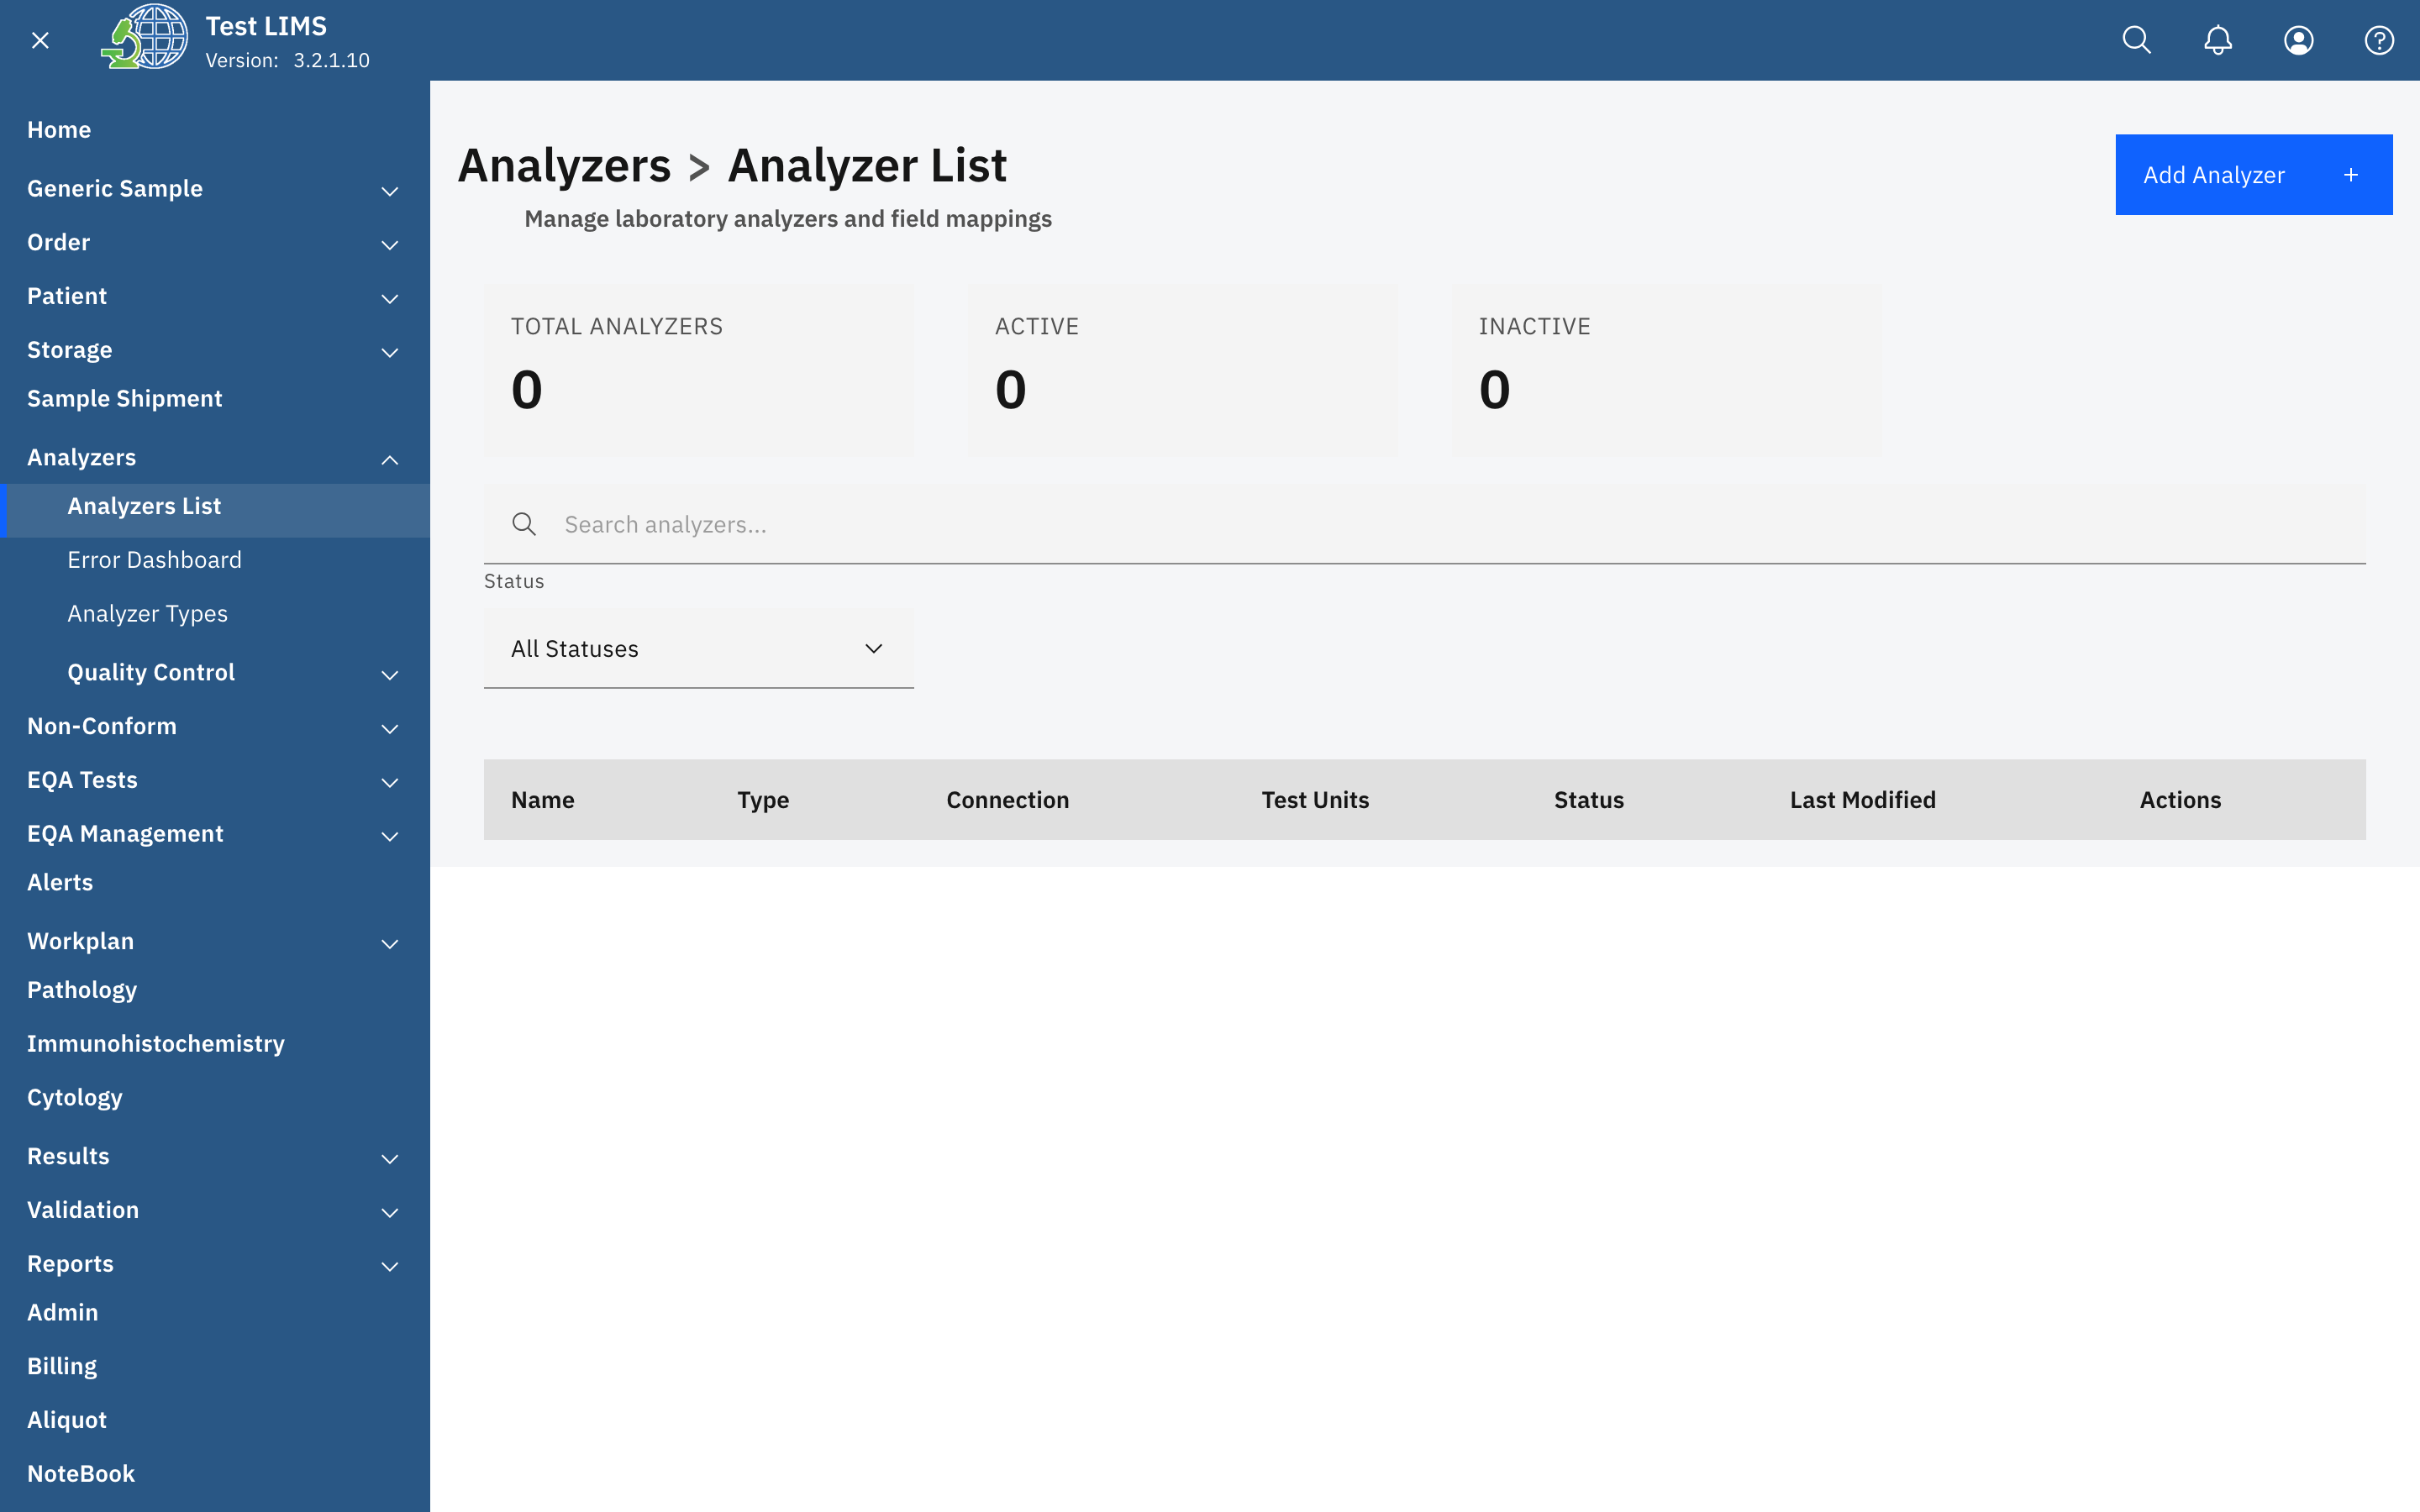
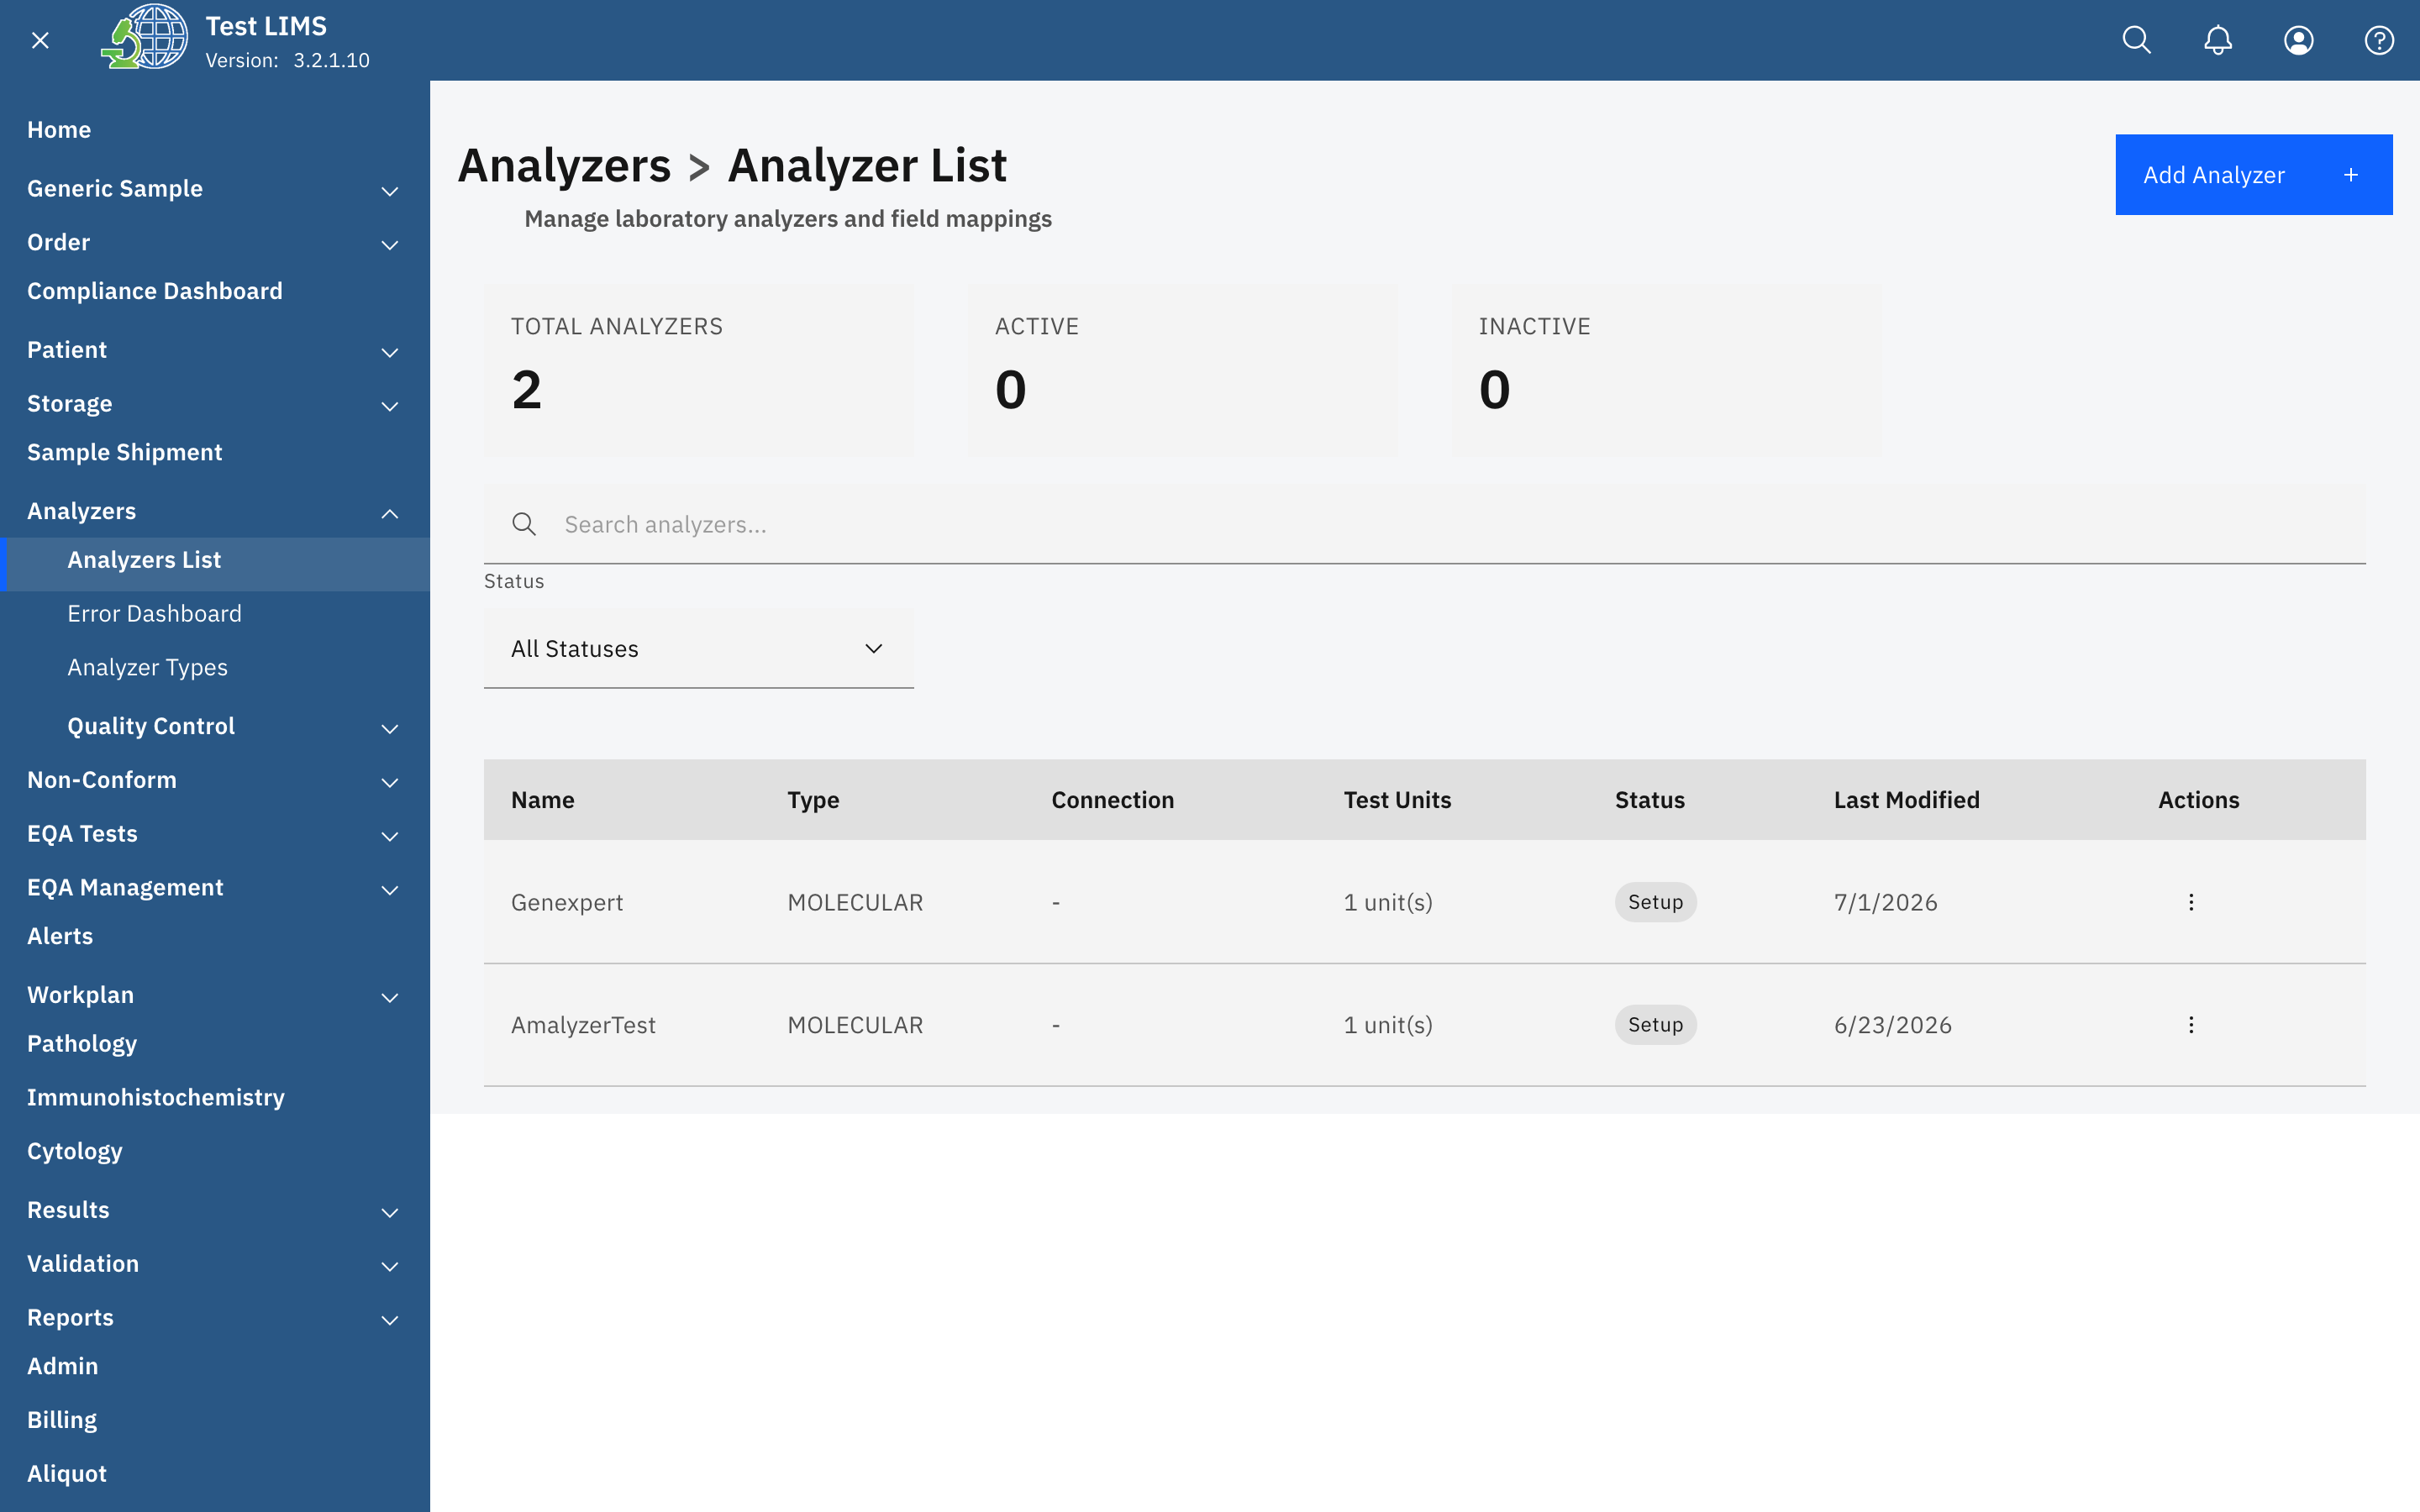
feat(site): use populated screenshots; retire empty QC/results shots
Hero + why-openelis: live home dashboard. Homepage "See it in action" band: pathology, sample storage, analyzers. One Health human-health tile: pathology case view. Replace empty QC/results-entry images (0 seeded instruments / search-first views) across all OG tags with the populated dashboard. Add home-dashboard/home-pathology/home-storage captures (indonesiademo, English locale). Ignore local build/scratch dirs.

diff --git a/site/pages/index.html b/site/pages/index.html
@@ -1,4 +1,4 @@
-<!--meta {"title":"OpenELIS Global — The Leading Open-Source Laboratory Information System","desc":"OpenELIS Global powers laboratory networks from single facilities to entire nations. FHIR-native, standards-based, enterprise-grade security — at zero licensing cost.","path":"/","active":"","og":"/assets/screenshots/homepage/home-results-entry.png"} -->
+<!--meta {"title":"OpenELIS Global — The Leading Open-Source Laboratory Information System","desc":"OpenELIS Global powers laboratory networks from single facilities to entire nations. FHIR-native, standards-based, enterprise-grade security — at zero licensing cost.","path":"/","active":"","og":"/assets/screenshots/homepage/home-dashboard.png"} -->
 <section class="hero">
   <div class="row">
     <div class="col">
@@ -9,7 +9,7 @@
       <a class="btn btn-ghost" href="/getting-started/demo/" style="margin-left:12px;">Try the Demo</a>
     </div>
     <div class="col">
-      <img src="/assets/screenshots/homepage/home-results-entry.png" alt="OpenELIS results entry interface">
+      <img src="/assets/screenshots/homepage/home-dashboard.png" alt="OpenELIS Global home dashboard showing live laboratory workload">
     </div>
   </div>
 </section>
@@ -69,16 +69,16 @@
     <h2 class="center">See it in action</h2>
     <div class="grid">
       <figure class="card" style="padding:0; overflow:hidden;">
-        <div class="shot-hero"><img src="/assets/screenshots/homepage/home-results-entry.png" alt="Results entry"></div>
-        <figcaption style="padding:16px 20px;"><strong>Results Entry &amp; Validation</strong><br>Reference-range highlighting flags out-of-range values as you work.</figcaption>
+        <div class="shot-hero"><img src="/assets/screenshots/homepage/home-pathology.png" alt="Pathology case dashboard"></div>
+        <figcaption style="padding:16px 20px;"><strong>Pathology &amp; Histopathology</strong><br>Track specimens from grossing to sign-out, with technician and pathologist assignment.</figcaption>
       </figure>
       <figure class="card" style="padding:0; overflow:hidden;">
-        <div class="shot-hero"><img src="/assets/screenshots/homepage/home-qc-dashboard.png" alt="QC dashboard"></div>
-        <figcaption style="padding:16px 20px;"><strong>Quality Control</strong><br>Westgard-rule monitoring with Levey-Jennings charts across instruments.</figcaption>
+        <div class="shot-hero"><img src="/assets/screenshots/homepage/home-storage.png" alt="Sample storage and chain of custody"></div>
+        <figcaption style="padding:16px 20px;"><strong>Sample Storage &amp; Chain of Custody</strong><br>Every specimen tracked by accession, type, status, and storage location.</figcaption>
       </figure>
       <figure class="card" style="padding:0; overflow:hidden;">
         <div class="shot-hero"><img src="/assets/screenshots/homepage/home-analyzers.png" alt="Analyzer integration"></div>
-        <figcaption style="padding:16px 20px;"><strong>Analyzer Integration</strong><br>Bidirectional ASTM/HL7 interfaces import results automatically.</figcaption>
+        <figcaption style="padding:16px 20px;"><strong>Analyzer Integration</strong><br>Manage instruments and field mappings — connect via ASTM, HL7, and CSV.</figcaption>
       </figure>
     </div>
     <p style="text-align:center; margin-top:28px;">

diff --git a/site/pages/capabilities/one-health/index.html b/site/pages/capabilities/one-health/index.html
@@ -54,8 +54,8 @@
     <h2 class="center">See it in OpenELIS</h2>
     <div class="grid">
       <figure class="card" style="padding:0; overflow:hidden;">
-        <div class="shot-hero"><img src="/assets/screenshots/homepage/home-qc-dashboard.png" alt="Quality control dashboard in OpenELIS"></div>
-        <figcaption style="padding:16px 20px;">Clinical quality control — Westgard-rule monitoring and Levey-Jennings charts across the human-health testing lifecycle.</figcaption>
+        <div class="shot-hero"><img src="/assets/screenshots/homepage/home-pathology.png" alt="Clinical pathology case tracking in OpenELIS"></div>
+        <figcaption style="padding:16px 20px;">Human health — track clinical and histopathology cases from accessioning through validated results, with a full audit trail.</figcaption>
       </figure>
       <figure class="card" style="padding:0; overflow:hidden;">
         <div class="shot-hero"><img src="/assets/screenshots/environmental-testing/environmental-testing-compliance-dashboard.png" alt="Regulatory compliance dashboard in OpenELIS"></div>

diff --git a/site/pages/why-openelis/index.html b/site/pages/why-openelis/index.html
@@ -1,4 +1,4 @@
-<!--meta {"title":"Why OpenELIS — Value & Evidence for Decision-Makers","desc":"Total cost of ownership, data sovereignty, peer-reviewed outcomes, and proven national-scale deployment. Why ministries and funders choose OpenELIS Global.","path":"/why-openelis/","active":"why-openelis","og":"/assets/screenshots/homepage/home-qc-dashboard.png"} -->
+<!--meta {"title":"Why OpenELIS — Value & Evidence for Decision-Makers","desc":"Total cost of ownership, data sovereignty, peer-reviewed outcomes, and proven national-scale deployment. Why ministries and funders choose OpenELIS Global.","path":"/why-openelis/","active":"why-openelis","og":"/assets/screenshots/homepage/home-dashboard.png"} -->
 <!-- COCOMO valuation figures approved for public use by Casey, 2026-07-02. -->
 <section class="hero">
   <div class="row">
@@ -9,7 +9,7 @@
       <a class="btn btn-orange" href="/getting-started/contact/">Talk to us about deployment</a>
     </div>
     <div class="col">
-      <img src="/assets/screenshots/homepage/home-qc-dashboard.png" alt="OpenELIS quality control dashboard">
+      <img src="/assets/screenshots/homepage/home-dashboard.png" alt="OpenELIS home dashboard showing live laboratory workload">
     </div>
   </div>
 </section>

diff --git a/site/pages/about/index.html b/site/pages/about/index.html
@@ -1,4 +1,4 @@
-<!--meta {"title":"About — OpenELIS Global","desc":"OpenELIS Global is free, open-source laboratory information infrastructure for global health — stewarded by DIGI at the University of Washington, deployed by ministries of health across 26+ countries, and aligned with multilateral partners.","path":"/about/","active":"about","og":"/assets/screenshots/homepage/home-results-entry.png"} -->
+<!--meta {"title":"About — OpenELIS Global","desc":"OpenELIS Global is free, open-source laboratory information infrastructure for global health — stewarded by DIGI at the University of Washington, deployed by ministries of health across 26+ countries, and aligned with multilateral partners.","path":"/about/","active":"about","og":"/assets/screenshots/homepage/home-dashboard.png"} -->
 <section class="hero">
   <div class="row">
     <div class="col" style="flex-basis:100%; max-width:860px; margin:0 auto; text-align:center;">

diff --git a/site/pages/about/partners/index.html b/site/pages/about/partners/index.html
@@ -1,4 +1,4 @@
-<!--meta {"title":"Partners — OpenELIS Global","desc":"OpenELIS Global is stewarded by DIGI at the University of Washington, deployed by ministries of health across 26+ countries, and supported by multilateral partners and a global community.","path":"/about/partners/","active":"about","og":"/assets/screenshots/homepage/home-results-entry.png"} -->
+<!--meta {"title":"Partners — OpenELIS Global","desc":"OpenELIS Global is stewarded by DIGI at the University of Washington, deployed by ministries of health across 26+ countries, and supported by multilateral partners and a global community.","path":"/about/partners/","active":"about","og":"/assets/screenshots/homepage/home-dashboard.png"} -->
 <section class="hero">
   <div class="row">
     <div class="col" style="flex-basis:100%; max-width:860px; margin:0 auto; text-align:center;">

diff --git a/site/pages/about/published-works/index.html b/site/pages/about/published-works/index.html
@@ -1,4 +1,4 @@
-<!--meta {"title":"Published Works — OpenELIS Global","desc":"Peer-reviewed research, publications, and academic contributions documenting OpenELIS Global implementations and outcomes across 15+ years and 15+ countries.","path":"/about/published-works/","active":"about","og":"/assets/screenshots/homepage/home-results-entry.png"} -->
+<!--meta {"title":"Published Works — OpenELIS Global","desc":"Peer-reviewed research, publications, and academic contributions documenting OpenELIS Global implementations and outcomes across 15+ years and 15+ countries.","path":"/about/published-works/","active":"about","og":"/assets/screenshots/homepage/home-dashboard.png"} -->
 <section class="hero">
   <div class="row">
     <div class="col" style="flex-basis:100%; max-width:860px; margin:0 auto; text-align:center;">

diff --git a/site/pages/capabilities/vector-reservoir/index.html b/site/pages/capabilities/vector-reservoir/index.html
@@ -1,4 +1,4 @@
-<!--meta {"title":"Vector & Reservoir Surveillance — OpenELIS Global","desc":"Pooled testing, collection-lot management, species reference data, and surveillance reporting for mosquito, rodent, flea, and tick programs — in the same open-source LIMS as your clinical work.","path":"/capabilities/vector-reservoir/","active":"one-health","og":"/assets/screenshots/homepage/home-qc-dashboard.png"} -->
+<!--meta {"title":"Vector & Reservoir Surveillance — OpenELIS Global","desc":"Pooled testing, collection-lot management, species reference data, and surveillance reporting for mosquito, rodent, flea, and tick programs — in the same open-source LIMS as your clinical work.","path":"/capabilities/vector-reservoir/","active":"one-health","og":"/assets/screenshots/homepage/home-dashboard.png"} -->
 <!-- TODO(seed): hero + "What it looks like" screenshots pending seeded vector data on the Indonesia demo.
      Vector identification/surveillance views 404 or need seeded pools+identifications to render. -->
 <section class="hero">

diff --git a/site/pages/catalyst-ai-lab-assistant/index.html b/site/pages/catalyst-ai-lab-assistant/index.html
@@ -1,4 +1,4 @@
-<!--meta {"title":"Catalyst AI Lab Assistant — OpenELIS Global","desc":"Catalyst is an AI-powered data assistant in development for OpenELIS — natural-language reporting, dashboards, and a visual form builder, with a privacy-first design that never exposes patient data to the model.","path":"/catalyst-ai-lab-assistant/","active":"features","og":"/assets/screenshots/homepage/home-qc-dashboard.png"} -->
+<!--meta {"title":"Catalyst AI Lab Assistant — OpenELIS Global","desc":"Catalyst is an AI-powered data assistant in development for OpenELIS — natural-language reporting, dashboards, and a visual form builder, with a privacy-first design that never exposes patient data to the model.","path":"/catalyst-ai-lab-assistant/","active":"features","og":"/assets/screenshots/homepage/home-dashboard.png"} -->
 <section class="hero">
   <div class="row">
     <div class="col" style="flex-basis:100%; max-width:860px; margin:0 auto; text-align:center;">

diff --git a/site/pages/community/get-involved/index.html b/site/pages/community/get-involved/index.html
@@ -1,4 +1,4 @@
-<!--meta {"title":"Get Involved — OpenELIS Global","desc":"Join the global OpenELIS community — implementers, developers, and public-health organizations across 26+ countries. Contribute code, translations, and requirements in the open.","path":"/community/get-involved/","active":"about","og":"/assets/screenshots/homepage/home-results-entry.png"} -->
+<!--meta {"title":"Get Involved — OpenELIS Global","desc":"Join the global OpenELIS community — implementers, developers, and public-health organizations across 26+ countries. Contribute code, translations, and requirements in the open.","path":"/community/get-involved/","active":"about","og":"/assets/screenshots/homepage/home-dashboard.png"} -->
 <section class="hero">
   <div class="row">
     <div class="col" style="flex-basis:100%; max-width:860px; margin:0 auto; text-align:center;">

diff --git a/site/pages/external-quality-assurance/index.html b/site/pages/external-quality-assurance/index.html
@@ -1,4 +1,4 @@
-<!--meta {"title":"External Quality Assurance — OpenELIS Global","desc":"Run proficiency-testing programs and participate in them, from the same LIMS. Panel management, distribution tracking, statistical scoring, and performance trending for ISO 15189 and SLIPTA accreditation.","path":"/external-quality-assurance/","active":"features","og":"/assets/screenshots/homepage/home-qc-dashboard.png"} -->
+<!--meta {"title":"External Quality Assurance — OpenELIS Global","desc":"Run proficiency-testing programs and participate in them, from the same LIMS. Panel management, distribution tracking, statistical scoring, and performance trending for ISO 15189 and SLIPTA accreditation.","path":"/external-quality-assurance/","active":"features","og":"/assets/screenshots/homepage/home-dashboard.png"} -->
 <!-- TODO(seed): add EQA provider + participant screenshots once seeded on a live instance. -->
 <section class="hero">
   <div class="row">

diff --git a/site/pages/getting-started/contact/index.html b/site/pages/getting-started/contact/index.html
@@ -1,4 +1,4 @@
-<!--meta {"title":"Contact — OpenELIS Global","desc":"Get in touch with the OpenELIS Global team about deployment, sponsorship, or contributing. Connect with a worldwide community of implementers and developers.","path":"/getting-started/contact/","active":"getting-started","og":"/assets/screenshots/homepage/home-results-entry.png"} -->
+<!--meta {"title":"Contact — OpenELIS Global","desc":"Get in touch with the OpenELIS Global team about deployment, sponsorship, or contributing. Connect with a worldwide community of implementers and developers.","path":"/getting-started/contact/","active":"getting-started","og":"/assets/screenshots/homepage/home-dashboard.png"} -->
 <!-- CONTACT FORM: works today with no backend — composes a formatted email to [email redacted] and opens
      the visitor's mail client on submit. To upgrade to inline submission later, sign up at
      https://formspree.io, set the form's action to the Formspree endpoint, and remove the onsubmit script. -->

diff --git a/site/pages/getting-started/demo/index.html b/site/pages/getting-started/demo/index.html
@@ -1,4 +1,4 @@
-<!--meta {"title":"Live Demo — OpenELIS Global","desc":"Try a full OpenELIS Global instance in your browser — no installation required. Public demo with sample data and published credentials.","path":"/getting-started/demo/","active":"getting-started","og":"/assets/screenshots/homepage/home-results-entry.png"} -->
+<!--meta {"title":"Live Demo — OpenELIS Global","desc":"Try a full OpenELIS Global instance in your browser — no installation required. Public demo with sample data and published credentials.","path":"/getting-started/demo/","active":"getting-started","og":"/assets/screenshots/homepage/home-dashboard.png"} -->
 <section class="hero">
   <div class="row">
     <div class="col" style="flex-basis:100%; max-width:860px; margin:0 auto; text-align:center;">